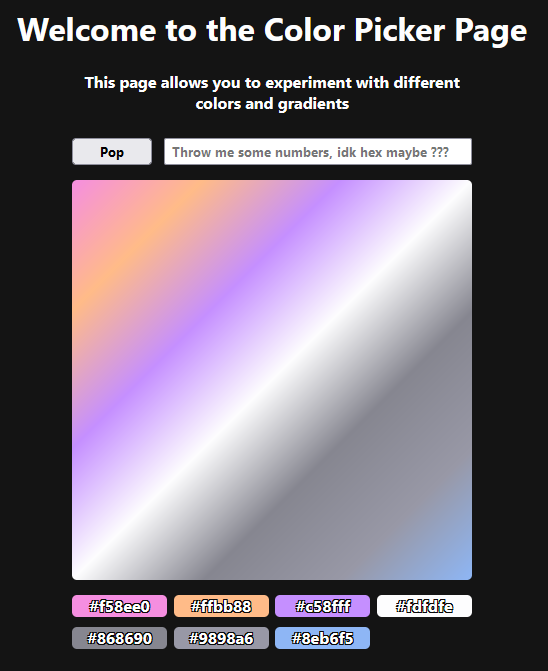
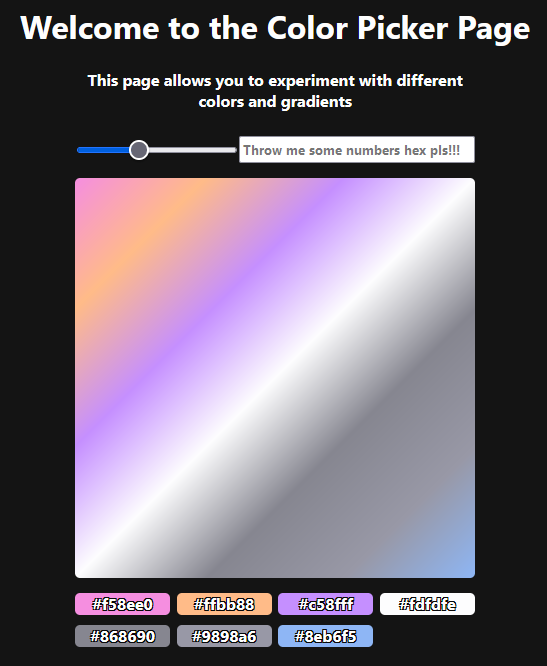
readme update

Changed region(s): [[0.1243, 0.0901, 0.8702, 0.991], [0.0311, 0.0, 0.9634, 0.0901]]

diff --git a/README.md b/README.md
@@ -42,10 +42,10 @@
 
 - [ ] Add support for json from web
 
-- [ ] Delete colors interactively
+- [X] Delete colors interactively
 
 - [ ] Support not only hex
 
-- [ ] Change rotation of gradient
+- [X] Change rotation of gradient
 
 - [ ] Gradient animation
